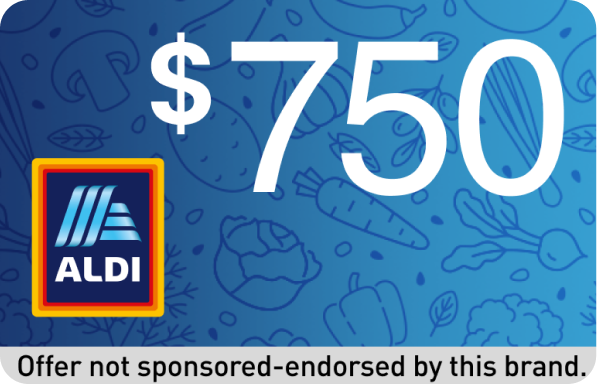
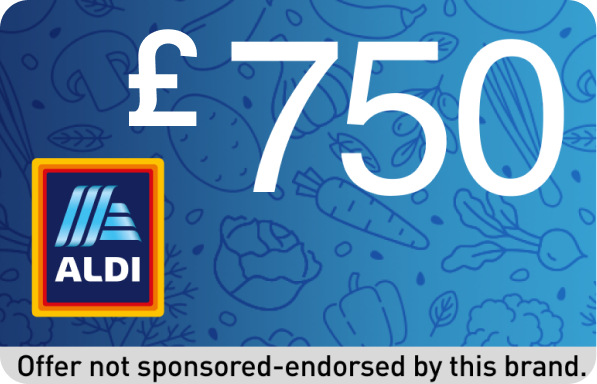
-++++

Changed region(s): [[0.2111, 0.0625, 0.3618, 0.3438]]

diff --git a/single/aldi-review-program-uk/index.html b/single/aldi-review-program-uk/index.html
@@ -4,7 +4,7 @@
     <meta charset="UTF-8">
     <meta name="viewport" content="width=device-width, initial-scale=1.0, maximum-scale=1.0, user-scalable=no">
 
-    <title>Get $750 To ALDI!</title>
+    <title>Get £750 To ALDI!</title>
 
     <link rel="shortcut icon" type="image/png" href="">
     <link rel="stylesheet" href="css/styles.css?v=34c287br9e8">
@@ -52,7 +52,7 @@
 
                 <p>Simply answer the poll questions provided below. If
                     you meet the program requirements, you 'll be eligible
-                    to receive up to <strong>$750</strong> to review <strong>ALDI products.</strong></p>
+                    to receive up to <strong>£750</strong> to review <strong>ALDI products.</strong></p>
 
                 <p>To ensure fairness for all candidates, please answer
                     the questions quickly and honestly!</p>
@@ -93,7 +93,7 @@
                 </div>
                 <div class="question question-4">
                     <div class="question-title">
-                        <h3><strong class="">Question 4/4:</strong> Are you from the United States?</h3>
+                        <h3><strong class="">Question 4/4:</strong> Are you from the United Kingdom?</h3>
                     </div>
                     <div class="quiz-answer">
                         <button class="btn btn-secondary btn-lg">Yes</button>
@@ -108,25 +108,26 @@
             <div class="title">
                 <h1><span class="secondary">CONGRATS!</span><br>YOU QUALIFY!</h1>
             </div>
-
+            <div class="card">
+                <img src="img/card.png" alt="">
+            </div>
             <div class="content center">
-                <p style="margin-bottom: 20px; margin-top: 40px;"><i>Follow the steps below to claim your reward:</i></p>
+                <p style="margin-bottom: 20px; margin-top: 20px;"><i>Follow the steps below to claim your reward:</i></p>
                 <div class="list">
                     <p>1. Click the link below and answer questions.</p>
-                    <p>2. Enter your email and basic info for reward delivery.</p>
-                    <p>3. Complete recommended deals (the more you complete the more you earn).</p>
-                    <p>4. <strong>Claim $750</strong> To Spend At <strong>ALDI!</strong></p>
+                    <p>2. Complete recommended deals (the more you complete the more you earn).</p>
+                    <p>3. <strong>Claim £750</strong> To Spend At <strong>ALDI!</strong></p>
                 </div>
             </div>
 
             <div class="btn-container">
-                <button class="btn btn-secondary btn-lg">
+                <a class="btn btn-secondary btn-lg" id="offer" href="https://omniapostback.com/click">
                     <span>Claim now</span>
                     <svg width="49" height="28" viewBox="0 0 49 28" fill="none" xmlns="http://www.w3.org/2000/svg">
                         <rect x="1.71429" y="1" width="46.2857" height="26" rx="13" stroke="white" stroke-width="2"/>
                         <path d="M16.7143 14H33M33 14L27.1035 8M33 14L27.1035 20" stroke="white" stroke-width="2"/>
                     </svg>
-                </button>
+                </a>
             </div>
             
 
@@ -134,52 +135,6 @@
                 <p>What others have been saying:</p>
                 <img src="img/comment.png" alt="">
             </div>
-            
-        </div>
-
-        <div class="form">
-            <div class="top-banner">
-                <strong>$750 for ALDI has been secured for you</strong>
-                <div class="border-1"></div>
-                <div class="border-2"></div>
-                <div class="border-3"></div>
-            </div>
-            <div class="card">
-                <img src="img/card-last.png" alt="">
-            </div>
-            <div class="input-container">
-                <p>Sign up to get started:</p>
-                <!-- input here -->
-
-
-                <div class="form-row">
-                    <div class="form-row-title">
-                        <strong>Email</strong>
-                    </div>
-                    <div class="form-element">
-                        <div class="form-element-container">
-                            <input type="text" name="email" class="form-control email" placeholder="example@gmail.com" autocapitalize="off">
-                            <div class="input-icon-container">
-                                <svg xmlns="http://www.w3.org/2000/svg" width="24" height="24" viewBox="0 0 24 24" fill="none"><g clip-path="url(#clip0_931_200)"><path d="M15.5511 12.9962L13.541 15.013C12.7259 15.831 11.2917 15.8486 10.459 15.013L8.44887 12.9962L1.22937 20.2391C1.4981 20.3634 1.7944 20.4375 2.1094 20.4375H21.8907C22.2057 20.4375 22.5019 20.3635 22.7705 20.2391L15.5511 12.9962Z" fill="#9F9FA0" fill-opacity="0.4"></path><path d="M21.8907 3.5625H2.10943C1.79443 3.5625 1.49813 3.63666 1.22949 3.76092L8.94404 11.5011C8.94455 11.5016 8.94516 11.5017 8.94568 11.5022C8.9462 11.5027 8.94629 11.5034 8.94629 11.5034L11.4547 14.0201C11.7211 14.2866 12.2791 14.2866 12.5455 14.0201L15.0534 11.5038C15.0534 11.5038 15.054 11.5027 15.0545 11.5022C15.0545 11.5022 15.0556 11.5016 15.0562 11.5011L22.7705 3.76088C22.5019 3.63656 22.2057 3.5625 21.8907 3.5625Z" fill="#9F9FA0" fill-opacity="0.4"></path><path d="M0.224344 4.74432C0.0853125 5.02548 0 5.33757 0 5.67189V18.3281C0 18.6624 0.0852187 18.9745 0.224297 19.2557L7.45631 12.0002L0.224344 4.74432Z" fill="#9F9FA0" fill-opacity="0.4"></path><path d="M23.7756 4.7442L16.5437 12.0002L23.7756 19.2558C23.9147 18.9746 24 18.6625 24 18.3281V5.67186C24 5.33745 23.9147 5.02536 23.7756 4.7442Z" fill="#9F9FA0" fill-opacity="0.4"></path></g><defs><clipPath id="clip0_931_200"><rect width="24" height="24" fill="white"></rect></clipPath></defs></svg>
-                            </div>
-                        </div>
-                    </div>
-                    <div class="disclaimer">
-                        <p class="gray center">We use email to notify you once you qualify <br> for the reward. Opt out anytime.</p>
-                    </div>
-                    <div class="btn-container">
-                        <a class="btn btn-secondary btn-lg" id="offer" href="https://omniapostback.com/click">
-                            <span>Continue</span>
-                            <svg width="49" height="28" viewBox="0 0 49 28" fill="none" xmlns="http://www.w3.org/2000/svg">
-                                <rect x="1.71429" y="1" width="46.2857" height="26" rx="13" stroke="white" stroke-width="2"/>
-                                <path d="M16.7143 14H33M33 14L27.1035 8M33 14L27.1035 20" stroke="white" stroke-width="2"/>
-                            </svg>
-                        </a>
-                    </div>
-                </div>
-
-            </div>
-
             
         </div>
     </div>

diff --git a/single/aldi-review-program-uk/js/scripts.js b/single/aldi-review-program-uk/js/scripts.js
@@ -1,8 +1,6 @@
 $(document).ready(function(){
     $('.preloader').delay(300).fadeOut(300);
 
-    $("input[name=email]").val("")
-
     window.domain = window.location.hostname;
     $(".domain").text(domain)
     $(".mailto").attr("href" , `mailto:contact@${domain}`)
@@ -38,73 +36,27 @@ $(document).ready(function(){
         },300)
     })
 
-    // spinner
-    $(".spinner .btn").on("click" , function(){
-        $(".spinner").fadeOut(300)
-        setTimeout(function(){
-            $(".form").fadeIn(300)
-            $(".container").removeClass("bg")
-        },300)
-    })
-
-    // form
-    let offer_link = "";
-    let final_link = "";
-
-    setTimeout(() => {
-        offer_link = $('#offer').attr("href");
-    }, 2000);
-
-    $(".email").on("input", function() {
-        final_link = `${offer_link}${offer_link.includes("?") ? "&" : "?"}sub15=${$("[name=email]").val()}`;
-        $("#offer").attr("href", final_link);
-    });
-
-    $("input[name=email]").on("input", function() {
-        if (/^\w+([\.-]?\w+)*@\w+([\.-]?\w+)*(\.\w{2,10})+$/.test($("input[name=email]").val())) {
-            $("input[name=email]").removeClass("error");
-        }
-    });
-
     let clickAllowed = true;
 
     $("#offer").on("click", function(e) {
+        e.preventDefault(); 
+
         if (!clickAllowed) {
-            e.preventDefault(); 
             return;
         }
-    
-        if (!/^\w+([\.-]?\w+)*@\w+([\.-]?\w+)*(\.\w{2,10})+$/.test($("input[name=email]").val())) {
-            e.preventDefault();
-            $("input[name=email]").addClass("error");
-            return;
-        } else {
-            e.preventDefault()
-            fetch(`https://omniapostback.com/postback?status=other&type=CompleteRegistration&clickid=${rtkClickID}&sum=0`, { mode: 'no-cors'})
-            .then(r => {
-                console.log("successfully registered: " + rtkClickID);
-                setTimeout(()=>{
-                    window.location.href = $(this).attr('href');
-                }, 500)
-            })
-            .catch(e => console.log("error during registration lead: " + e));
-        }
+
+        fetch(`https://omniapostback.com/postback?status=other&type=CompleteRegistration&clickid=${rtkClickID}&sum=0`, { mode: 'no-cors'})
+        .then(r => {
+            console.log("successfully registered: " + rtkClickID);
+            setTimeout(()=>{
+                window.location.href = $(this).attr('href');
+            }, 500)
+        })
+        .catch(e => console.log("error during registration lead: " + e));
     
         clickAllowed = false;
         setTimeout(() => {
             clickAllowed = true; 
         }, 5000);
     });
-
-
-// test
-// $(".quiz").fadeOut(0)
-// $(".spinner").fadeOut(0)
-// $(".form").fadeIn(0)
-// test
-
-
-
-    
-
 })

diff --git a/single/aldi-review-program-uk/css/styles.css b/single/aldi-review-program-uk/css/styles.css
@@ -191,7 +191,9 @@ p {
 
 .spinner {
     display: none;
-    
+}
+.spinner .card {
+    margin-top: 40px;
 }
 .screen .container {
     position: relative;
